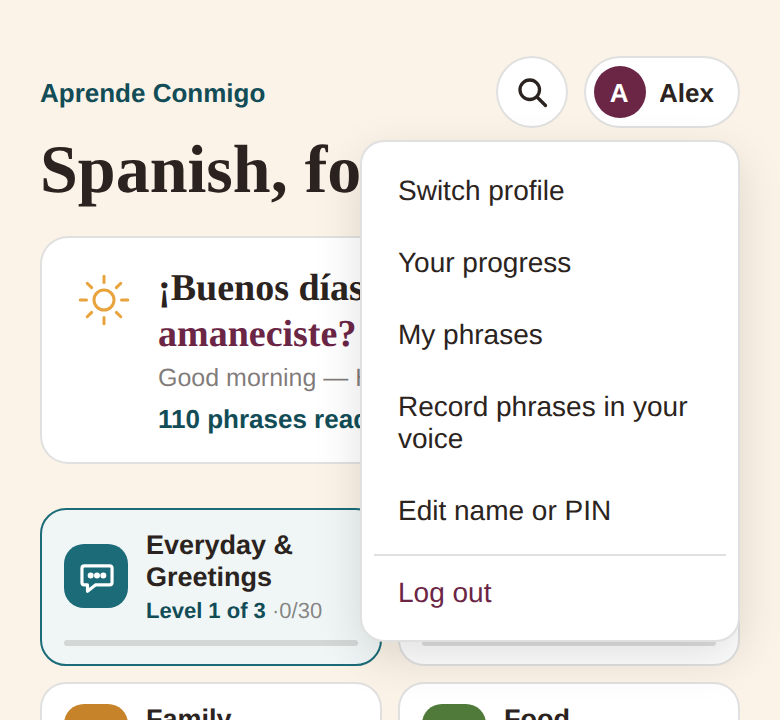
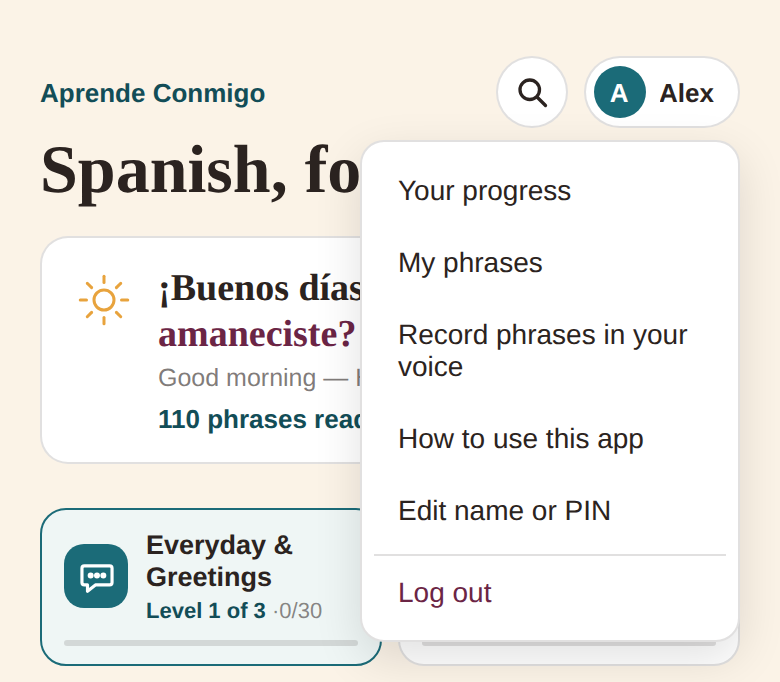
One person per phone
Profiles no longer share a phone: there's no Add a profile or Switch
profile, and the app opens straight into the phone's one profile (or asks
for its PIN). Log out only appears with a PIN, and leads back to the PIN
screen. Phones already set up with several profiles still list them, with
a note on moving to one's own phone, so each person can export their
progress and delete their profile; Switch profile goes away once one is left.

Claude-Session: https://claude.ai/code/session_018Kq3xfFjwcvPidqJjd3dSr

diff --git a/tests/app.test.js b/tests/app.test.js
@@ -392,48 +392,65 @@ const ok = (c, m) => { console.log((c ? 'PASS ' : 'FAIL ') + m); if (!c) fails++
   await pp.reload(); await appReady(pp);
   ok(await pp.isVisible('#main'), 'no PIN: straight back in on the next launch');
 
-  // add a second profile with a PIN
-  await pp.click('#chipBtn'); await pp.click('#menuSwitch');
-  ok((await pp.textContent('#login')).includes('¿Quién va a practicar?'), 'switch shows the profile picker');
-  await pp.click('#addProfileBtn');
-  await pp.fill('#nameInput', 'sam'); await pp.click('#saveProfileBtn');
-  ok((await pp.textContent('#formError')).includes('already a profile'), 'duplicate names are rejected');
-  await pp.fill('#nameInput', 'Alex <b>'); await pp.fill('#pinSet', '4321'); await pp.click('#saveProfileBtn');
-  ok((await pp.textContent('#greeting')).includes('¡Buenos días, Alex <b>!') && !(await pp.$('#greeting b')), 'second profile greeted by name (and names are escaped)');
-  ok(await pp.evaluate(() => Object.keys(state.progress).length) === 0, 'second profile starts with its own empty progress');
-  await pp.click('#knowBtn');
-  ok(await pp.evaluate(() => Object.keys(JSON.parse(localStorage.getItem('progress'))).length) === 1, "Alex's answers don't touch Sam's progress");
-  ok(await pp.evaluate(() => Object.keys(localStorage).some(k => /^p:[a-z0-9]+:progress$/.test(k))), "Alex's progress is stored under their own keys");
+  // one person per phone: no way to add or switch to another profile
+  await pp.click('#chipBtn');
+  ok(!(await pp.$('#menuSwitch')) && !(await pp.$('#menuLogout')), 'menu has no Switch profile, and no Log out without a PIN');
+  ok(await pp.evaluate(() => JSON.parse(localStorage.getItem('profiles')).list.length) === 1, 'the phone has one profile');
 
-  // PIN on the next launch
+  // add a PIN
+  await pp.click('#menuEdit');
+  await pp.fill('#pinSet', '4321'); await pp.click('#saveProfileBtn');
+  ok(!(await pp.evaluate(() => localStorage.getItem('profiles'))).includes('4321'), 'PIN is not stored as typed');
   await pp.reload(); await appReady(pp);
-  ok(await pp.isVisible('#pinInput') && !(await pp.isVisible('#main')), 'profile with a PIN asks for it on launch');
+  ok(await pp.isVisible('#pinInput') && !(await pp.isVisible('#main')), 'with a PIN, the app asks for it on launch');
+  ok(!(await pp.$('#switchBtn')), 'the PIN screen offers no other profile');
   await pp.fill('#pinInput', '1111');
   ok((await pp.textContent('#pinError')).includes('isn’t right') && !(await pp.isVisible('#main')), 'wrong PIN is refused');
   await pp.fill('#pinInput', '4321');
-  ok(await pp.isVisible('#main') && await pp.evaluate(() => Object.keys(state.progress).length) === 1, 'right PIN opens Alex with their progress');
-  ok(!(await pp.evaluate(() => localStorage.getItem('profiles'))).includes('4321'), 'PIN is not stored as typed');
+  ok(await pp.isVisible('#main') && await pp.evaluate(() => !!state.progress['food/Repetir']), 'right PIN opens the app with its progress');
 
-  // switch back to Sam: no PIN, Sam's own state
-  await pp.click('#chipBtn'); await pp.click('#menuSwitch');
-  await pp.click('.profile-pick:has-text("Sam")');
-  ok((await pp.textContent('#greeting')).includes('Sam') && await pp.evaluate(() => !!state.progress['food/Repetir']), 'switching loads the other profile');
-
-  // edit: remove nothing, rename
+  // edit: rename
   await pp.click('#chipBtn'); await pp.click('#menuEdit');
   await pp.fill('#nameInput', 'Samuel'); await pp.click('#saveProfileBtn');
   ok((await pp.textContent('#greeting')).includes('Samuel'), 'renaming updates the greeting');
   ok((await pp.textContent('#appTitle')) === 'Spanish, for Samuel', 'renaming updates the title');
 
-  // delete Alex via the forgotten-PIN route (two taps)
-  await pp.click('#chipBtn'); await pp.click('#menuSwitch');
-  await pp.click('.profile-pick:has-text("Alex")');
+  // forgot PIN: delete (two taps), then the welcome screen
+  await pp.reload(); await appReady(pp);
   await pp.click('#forgotBtn'); await pp.click('#forgotDeleteBtn');
   ok((await pp.textContent('#forgotDeleteBtn')).includes('Tap again') && await pp.isVisible('#pinInput'), 'first tap on delete only asks again');
   await pp.click('#forgotDeleteBtn');
-  ok((await pp.$$('.profile-pick[data-id]')).length === 1, 'second tap deletes the profile');
-  ok(await pp.evaluate(() => !Object.keys(localStorage).some(k => k.startsWith('p:') && localStorage.getItem(k))), "deleted profile's progress is cleared");
+  ok((await pp.textContent('#login')).includes('¿Cómo te llamas?'), 'second tap deletes the profile and shows the welcome screen');
+  ok(await pp.evaluate(() => !localStorage.getItem('progress')), "deleted profile's progress is cleared");
   await pctx.close();
+
+  { // 23b. a phone set up with several profiles before one-person-per-phone
+    const mctx = await newCtx(false);
+    await mctx.addInitScript(() => {
+      if (localStorage.getItem('profiles')) return;
+      localStorage.setItem('profiles', JSON.stringify({ list: [
+        { id: 'default', name: 'Sam', color: '#1B6B78', pin: null },
+        { id: 'alex1234', name: 'Alex', color: '#6B2545', pin: null }], active: null }));
+      localStorage.setItem('progress', JSON.stringify({ 'food/Repetir': { box: 2, due: 9e12 } }));
+      localStorage.setItem('p:alex1234:progress', JSON.stringify({ 'food/Pica un poco': { box: 1, due: 9e12 } }));
+    });
+    const pm = await mctx.newPage();
+    pm.on('pageerror', e => { console.log('PAGEERROR-PM', e.message); fails++; });
+    await pm.goto(URL); await appReady(pm);
+    ok((await pm.textContent('#login')).includes('one person per phone') && (await pm.$$('.profile-pick[data-id]')).length === 2 && !(await pm.$('#addProfileBtn')),
+      'old shared phone: lists its profiles, explains one person per phone, no Add a profile');
+    await pm.click('.profile-pick:has-text("Alex")'); await appReady(pm);
+    ok(await pm.evaluate(() => !!state.progress['food/Pica un poco'] && !state.progress['food/Repetir']), 'each old profile still opens its own progress');
+    await pm.click('#chipBtn');
+    ok(await pm.isVisible('#menuSwitch'), 'Switch profile stays while there are several');
+    await pm.click('#menuEdit'); await pm.click('#deleteBtn'); await pm.click('#deleteBtn');
+    await appReady(pm);
+    ok(await pm.isVisible('#main') && (await pm.textContent('#greeting')).includes('Sam') && await pm.evaluate(() => !localStorage.getItem('p:alex1234:progress')),
+      'deleting down to one profile opens the one left, and the deleted progress is gone');
+    await pm.click('#chipBtn');
+    ok(!(await pm.$('#menuSwitch')), 'with one profile left, Switch profile goes away');
+    await mctx.close();
+  }
 
   // 24. quiz question types
   const qctx = await newCtx();
@@ -623,22 +640,23 @@ const ok = (c, m) => { console.log((c ? 'PASS ' : 'FAIL ') + m); if (!c) fails++
   ok(hardCount === 1, 'right answers on Difícil count toward "Modo difícil"');
   await dctx.close();
 
-  // 26. log out
+  // 26. log out (only with a PIN)
   const lctx = await newCtx(); const pl = await lctx.newPage();
   pl.on('pageerror', e => { console.log('PAGEERROR-L', e.message); fails++; });
   await pl.goto(URL);
   await pl.click('#knowBtn');
+  await pl.click('#chipBtn'); await pl.click('#menuEdit');
+  await pl.fill('#pinSet', '2468'); await pl.click('#saveProfileBtn');
   await pl.click('#chipBtn');
-  ok(await pl.isVisible('#menuLogout'), 'profile menu has Log out');
+  ok(await pl.isVisible('#menuLogout'), 'profile menu has Log out once a PIN is set');
   await pl.click('#menuLogout');
-  ok(await pl.isVisible('#login') && !(await pl.isVisible('#main')) && (await pl.textContent('#login')).includes('¿Quién va a practicar?'), 'log out shows who-is-practising screen');
+  ok(await pl.isVisible('#pinInput') && !(await pl.isVisible('#main')), 'log out shows the PIN screen');
   ok(await pl.evaluate(() => JSON.parse(localStorage.getItem('profiles')).active) === null, 'log out forgets the signed-in profile');
   await pl.reload(); await appReady(pl);
-  await pl.waitForSelector('.profile-pick');
-  ok(!(await pl.isVisible('#main')), 'after logging out, the next launch does not sign straight in');
-  await pl.click('.profile-pick:has-text("Sam")');
+  ok(await pl.isVisible('#pinInput') && !(await pl.isVisible('#main')), 'after logging out, the next launch asks for the PIN');
+  await pl.fill('#pinInput', '2468');
   await pl.waitForFunction(() => Profiles.current() && Object.keys(state.progress).length === 1);
-  ok(await pl.isVisible('#main') && await pl.evaluate(() => Object.keys(state.progress).length) === 1, 'signing back in keeps the progress');
+  ok(await pl.isVisible('#main'), 'signing back in keeps the progress');
   await lctx.close();
 
   // 27. works offline (served as the website, like GitHub Pages)
@@ -717,9 +735,11 @@ const ok = (c, m) => { console.log((c ? 'PASS ' : 'FAIL ') + m); if (!c) fails++
   await pv.reload(); await appReady(pv);
   await pv.waitForFunction(es => Voice.has(es), firstEs);
   ok(true, 'recordings survive a restart');
-  // each profile has its own recordings
+  // each profile (on a phone set up with several) has its own recordings
+  await pv.evaluate(() => { const d = JSON.parse(localStorage.getItem('profiles')); d.list.push({ id: 'alex1234', name: 'Alex', color: '#6B2545', pin: null }); localStorage.setItem('profiles', JSON.stringify(d)); });
+  await pv.reload(); await appReady(pv);
   await pv.evaluate(() => Profiles.logout());
-  await pv.click('#addProfileBtn'); await pv.fill('#nameInput', 'Alex'); await pv.click('#saveProfileBtn');
+  await pv.click('.profile-pick:has-text("Alex")');
   await appReady(pv); await pv.evaluate(() => Voice.ready());
   ok(!(await pv.evaluate(es => Voice.has(es), firstEs)) && await pv.evaluate(() => Voice.count() === 0), "another profile doesn't get Sam's recordings");
   await pv.evaluate(es => speak(es), firstEs); await pv.waitForTimeout(50);
@@ -783,8 +803,10 @@ const ok = (c, m) => { console.log((c ? 'PASS ' : 'FAIL ') + m); if (!c) fails++
     ok(await pm.evaluate(() => myPhrases.length === 1 && 'mine' in DECKS), 'My phrases are saved');
     // another profile has its own list; import brings phrases across
     const code = await pm.evaluate(() => encodeProgressBlob({ progress: { 'mine/¿Me pasas el control?': { box: 2, due: 9e12, seen: 5 } }, custom: myPhrases }));
+    await pm.evaluate(() => { const d = JSON.parse(localStorage.getItem('profiles')); d.list.push({ id: 'alex1234', name: 'Alex', color: '#6B2545', pin: null }); localStorage.setItem('profiles', JSON.stringify(d)); });
+    await pm.reload(); await appReady(pm);
     await pm.evaluate(() => Profiles.logout());
-    await pm.click('#addProfileBtn'); await pm.fill('#nameInput', 'Alex'); await pm.click('#saveProfileBtn');
+    await pm.click('.profile-pick:has-text("Alex")'); await appReady(pm);
     ok(await pm.evaluate(() => myPhrases.length === 0 && !('mine' in DECKS)), "another profile doesn't see Sam's phrases");
     await pm.evaluate(code => applyImport(code), code);
     ok(await pm.evaluate(() => myPhrases.length === 1 && state.progress['mine/¿Me pasas el control?'].box === 2), 'import brings My phrases and their progress');

diff --git a/profiles.js b/profiles.js
@@ -1,6 +1,8 @@
-// profiles.js — who's practising. Profiles live on this device only: a name,
-// an optional 4-digit PIN, and their own progress (storage.js keeps each
-// profile's keys separate). The PIN only stops someone opening the wrong
+// profiles.js — who's practising. One person per phone: a name, an optional
+// 4-digit PIN, and their progress, kept on this device only. Phones set up
+// when several people could share one may still hold more than one profile
+// (storage.js keeps each profile's keys separate); those can still be opened
+// and deleted, but no new ones can be added. The PIN only stops someone opening the wrong
 // profile by accident — it isn't a password and doesn't encrypt anything.
 // Depends on storage.js (Storage) and content.js (iconSvg).
 const Profiles = (function () {
@@ -83,7 +85,7 @@ const Profiles = (function () {
     showScreen(
       '<div class="eyebrow">Aprende Conmigo</div>' +
       '<h1 class="login-title">¡Hola! ¿Cómo te llamas?</h1>' +
-      '<p class="login-sub">What’s your name? It’s only kept on this device, to greet you and keep your progress separate.</p>' +
+      '<p class="login-sub">What’s your name? It’s only kept on this phone, to greet you.</p>' +
       formFields(null) +
       (legacy ? '<p class="login-note">The progress already on this device will be kept in your profile.</p>' : '') +
       '<button class="ctrl-btn primary login-btn" id="saveProfileBtn">Empezar · Start</button>' +
@@ -91,20 +93,22 @@ const Profiles = (function () {
     wireForm(null);
   }
 
+  // Only for phones that still hold several profiles from before one-person-per-phone.
   function showPicker() {
+    if (data.list.length <= 1) return data.list.length ? choose(data.list[0]) : showWelcome();
     entered = null;
     showScreen(
       '<div class="eyebrow">Aprende Conmigo</div>' +
       '<h1 class="login-title">¿Quién va a practicar?</h1>' +
       '<p class="login-sub">Who’s going to practise?</p>' +
+      '<p class="login-note">Aprende Conmigo is now one person per phone. Everyone else should install it on their own phone. ' +
+        'To take your progress with you: open your profile, tap <strong>Export progress</strong>, then <strong>Import progress</strong> on your phone. ' +
+        'Then delete your profile here (tap your name → Edit name or PIN → Delete this profile).</p>' +
       '<div class="profile-grid">' +
         data.list.map(p => '<button class="profile-pick" data-id="' + p.id + '">' + avatar(p, 'avatar-lg') +
           '<span class="profile-name">' + esc(p.name) + '</span>' + (p.pin ? '<span class="profile-lock">🔒 PIN</span>' : '') + '</button>').join('') +
-        '<button class="profile-pick profile-add" id="addProfileBtn"><span class="avatar avatar-lg avatar-add" aria-hidden="true">+</span>' +
-          '<span class="profile-name">Add a profile</span></button>' +
       '</div>');
     document.querySelectorAll('.profile-pick[data-id]').forEach(b => { b.onclick = () => choose(byId(b.dataset.id)); });
-    $('addProfileBtn').onclick = () => showForm(null);
   }
 
   function choose(p) { if (p.pin) showPin(p); else enter(p); }
@@ -118,7 +122,7 @@ const Profiles = (function () {
       '<input class="pin-input" id="pinInput" type="password" inputmode="numeric" pattern="[0-9]*" maxlength="4" autocomplete="off" aria-label="PIN">' +
       '<div class="login-error" id="pinError" role="alert"></div>' +
       '<button class="ctrl-btn primary login-btn" id="pinBtn">Entrar · Go in</button>' +
-      '<div class="login-links"><button class="link-btn" id="switchBtn">Not ' + esc(p.name) + '? Switch profile</button>' +
+      '<div class="login-links">' + (data.list.length > 1 ? '<button class="link-btn" id="switchBtn">Not ' + esc(p.name) + '? Switch profile</button>' : '') +
       '<button class="link-btn" id="forgotBtn">Forgot PIN?</button></div>' +
       '<div class="login-note" id="forgotNote" hidden>A forgotten PIN can’t be recovered — it’s only stored on this device. ' +
         'You can delete this profile and start a new one; its progress will be lost. ' +
@@ -132,7 +136,7 @@ const Profiles = (function () {
     $('pinBtn').onclick = tryPin;
     input.oninput = () => { $('pinError').textContent = ''; if (input.value.length === 4) tryPin(); };
     input.onkeydown = e => { if (e.key === 'Enter') tryPin(); };
-    $('switchBtn').onclick = showPicker;
+    if ($('switchBtn')) $('switchBtn').onclick = showPicker;
     $('forgotBtn').onclick = () => { $('forgotNote').hidden = false; };
     confirmTwice($('forgotDeleteBtn'), 'Tap again to delete ' + p.name + '’s progress', () => remove(p));
     input.focus();
@@ -156,7 +160,7 @@ const Profiles = (function () {
       '<button class="ctrl-btn login-btn" id="cancelBtn">Cancel</button>' +
       (p ? '<button class="link-btn danger delete-profile" id="deleteBtn">Delete this profile</button>' : ''));
     wireForm(p);
-    $('cancelBtn').onclick = () => { if (p && entered) enter(entered); else if (data.list.length) showPicker(); else showWelcome(); };
+    $('cancelBtn').onclick = () => { if (p && entered) enter(entered); else showPicker(); };
     if (p) confirmTwice($('deleteBtn'), 'Tap again to delete ' + p.name + ' and all their progress', () => remove(p));
   }
 
@@ -174,6 +178,7 @@ const Profiles = (function () {
         save();
         enter(p);
       } else {
+        if (data.list.length) return fail('This phone already belongs to ' + data.list[0].name + '.');
         const created = { id: newId(), name, color: COLORS[data.list.length % COLORS.length], pin: pin ? makePin(pin) : null };
         data.list.push(created);
         save();
@@ -204,7 +209,7 @@ const Profiles = (function () {
     data.list = data.list.filter(o => o !== p);
     if (data.active === p.id) data.active = null;
     save();
-    if (data.list.length) showPicker(); else showWelcome();
+    showPicker();
   }
 
   // ---- in the app ----
@@ -228,10 +233,10 @@ const Profiles = (function () {
       '<button class="profile-chip" id="chipBtn" aria-haspopup="true" aria-expanded="false">' + avatar(entered) +
         '<span>' + esc(entered.name) + '</span></button>' +
       '<div class="profile-menu" id="profileMenu" hidden>' +
-        '<button id="menuSwitch">Switch profile</button>' +
+        (data.list.length > 1 ? '<button id="menuSwitch">Switch profile</button>' : '') +
         extraMenu.map(m => '<button id="' + m.id + '">' + esc(m.label) + '</button>').join('') +
         '<button id="menuEdit">Edit name or PIN</button>' +
-        '<button id="menuLogout" class="menu-logout">Log out</button>' +
+        (entered.pin || data.list.length > 1 ? '<button id="menuLogout" class="menu-logout">Log out</button>' : '') +
       '</div>';
     const menu = $('profileMenu'), btn = $('chipBtn');
     const close = () => { menu.hidden = true; btn.setAttribute('aria-expanded', 'false'); };
@@ -247,13 +252,14 @@ const Profiles = (function () {
         if (m && !$('profileChip').contains(e.target)) { m.hidden = true; if ($('chipBtn')) $('chipBtn').setAttribute('aria-expanded', 'false'); }
       });
     }
-    $('menuSwitch').onclick = () => { close(); showPicker(); };
+    if ($('menuSwitch')) $('menuSwitch').onclick = () => { close(); showPicker(); };
     $('menuEdit').onclick = () => { close(); showForm(entered); };
-    $('menuLogout').onclick = () => { close(); logout(); };
+    if ($('menuLogout')) $('menuLogout').onclick = () => { close(); logout(); };
     extraMenu.forEach(m => { $(m.id).onclick = () => { close(); m.onClick(); }; });
   }
 
-  // Unlike "Switch profile", nobody is remembered: the next launch asks who's practising.
+  // Nobody is remembered: the next launch asks for the PIN (or, on a phone
+  // that still holds several profiles, who's practising).
   function logout() {
     if (window.speechSynthesis) try { window.speechSynthesis.cancel(); } catch (e) {}
     data.active = null;
@@ -264,7 +270,7 @@ const Profiles = (function () {
   async function start(callback) {
     onEnter = callback;
     await load();
-    const p = byId(data.active);
+    const p = byId(data.active) || (data.list.length === 1 ? data.list[0] : null);
     if (!data.list.length) await showWelcome();
     else if (p && !p.pin) await enter(p);   // same person as last time: straight in
     else if (p) showPin(p);

diff --git a/guide.html b/guide.html
@@ -105,9 +105,9 @@ dd{ margin:4px 0 0; }
   <div class="pair">
     <div>
       <p>The app asks <strong>“¡Hola! ¿Cómo te llamas?”</strong> — what’s your name? Type your first name so it can greet you.</p>
-      <p>You can also set a <strong>4-digit PIN</strong>. It’s optional: only worth it if other people use the same phone and you don’t want them opening your profile by accident.</p>
+      <p>You can also set a <strong>4-digit PIN</strong>. It’s optional: only worth it if other people sometimes use your phone and you’d rather they didn’t open the app.</p>
       <p>Tap <strong>Empezar · Start</strong> and you’re in.</p>
-      <div class="tip">Several people can share one phone: each gets their own profile, progress and streak. Your name and progress never leave the phone.</div>
+      <div class="tip">It’s one person per phone. If someone else wants to learn too, they install it on their own phone. Your name and progress never leave the phone.</div>
     </div>
     <figure><img src="guide/01-welcome.png" alt="The welcome screen asking for your name and an optional PIN" width="390" height="470" loading="lazy"><figcaption>The welcome screen.</figcaption></figure>
   </div>
@@ -202,10 +202,10 @@ dd{ margin:4px 0 0; }
         <dt>My phrases</dt><dd>Add your own phrases — things you actually say at home. They get their own deck.</dd>
         <dt>Record phrases in your voice</dt><dd>Record how <em>you</em> (or a Spanish-speaking friend) say a phrase; the speaker button then plays that instead of the phone’s voice.</dd>
         <dt>Edit name or PIN</dt><dd>Change your name, or add, change or remove your PIN.</dd>
-        <dt>Switch profile / Log out</dt><dd>For shared phones. Each profile is kept separate: its own progress, streak, challenges, settings, My phrases and recordings. Log out means the next person picks their own profile.</dd>
+        <dt>Log out</dt><dd>Only shown if you’ve set a PIN. The app then asks for your PIN the next time it opens.</dd>
       </dl>
     </div>
-    <figure><img src="guide/08-menu.png" alt="The menu that opens when you tap your name" width="390" height="360" loading="lazy"><figcaption>The menu.</figcaption></figure>
+    <figure><img src="guide/08-menu.png" alt="The menu that opens when you tap your name" width="390" height="341" loading="lazy"><figcaption>The menu.</figcaption></figure>
   </div>
 
   <h2 id="search">11. Search</h2>
@@ -227,7 +227,7 @@ dd{ margin:4px 0 0; }
     <dt>It opened but my progress is gone.</dt>
     <dd>Make sure you opened it from the Home Screen icon, not a browser tab, and that you’re in the right profile (tap your name). If the app was deleted, use your export code (section 12).</dd>
     <dt>I forgot my PIN.</dt>
-    <dd>It can’t be recovered — it only exists on the phone. On the PIN screen, “Forgot PIN?” lets you delete that profile and start again. (Importing an export code brings the progress back.)</dd>
+    <dd>It can’t be recovered — it only exists on the phone. On the PIN screen, “Forgot PIN?” lets you delete your profile and start again. (Importing an export code brings the progress back.)</dd>
     <dt>How do I get the latest version?</dt>
     <dd>It updates itself. If something looks old, close the app completely and open it again.</dd>
     <dt>Does it work without internet?</dt>

diff --git a/README.md b/README.md
@@ -43,7 +43,7 @@ chooses for you and gets harder as a card gets stronger:
 
 ## Difficulty (Nivel)
 
-Pick **Fácil**, **Normal** or **Difícil** above the cards; each profile keeps its own choice.
+Pick **Fácil**, **Normal** or **Difícil** above the cards; the app remembers your choice.
 It changes how questions are asked, never how often cards come back.
 
 | | Fácil | Normal | Difícil |
@@ -82,7 +82,7 @@ quizzes as everything else, and travel with Export/Import.
 
 - **Record phrases in your voice** (in the menu under your name): record a
   phrase and every speaker button plays your recording instead of the
-  phone's voice. Recordings stay on the phone, and each profile has its own.
+  phone's voice. Recordings stay on the phone.
 - **Share this phrase** on the back of a flashcard sends it through the
   phone's share sheet (Messages, WhatsApp, …).
 
@@ -95,9 +95,11 @@ online). Dark mode follows the phone's own setting.
 ## Profiles
 
 The first time it opens, the app asks for a name (and an optional 4-digit PIN).
-Everyone who uses the same phone can have their own profile — each with their
-own progress, streak and challenges. Tap your name at the top to switch
-profiles or change your name or PIN.
+It's one person per phone: anyone else installs it on their own phone. Tap
+your name at the top to change your name or PIN, or to log out (with a PIN
+set, the app then asks for it next time). A phone set up with several profiles
+before this still lists them, so each person can export their progress and
+delete their profile; no new profiles can be added.
 
 Profiles only exist on that device; nothing is sent anywhere. The PIN just
 stops someone opening the wrong profile by accident — it isn't a password, and
@@ -126,7 +128,7 @@ tab shows what went wrong.
 | `content.js` | Decks, levels and cards |
 | `srs.js` | Spaced-repetition schedule: 10 min → 1 day → 3 days → 1 week → 2 weeks → 1 month → 3 months |
 | `challenges.js` | Daily challenges (3 new each day), the day streak and achievements |
-| `profiles.js` | Profiles on the device: welcome screen, who's practising, PIN |
+| `profiles.js` | The phone's owner: welcome screen, PIN, name |
 | `quiz.js` | Quiz question types, Mixed mode, answer checking, Match the pairs |
 | `app.js` | Screens, greeting, levels, export/import |
 | `storage.js` | Saves progress (browser storage, Claude artifact storage, or Scriptable) |
